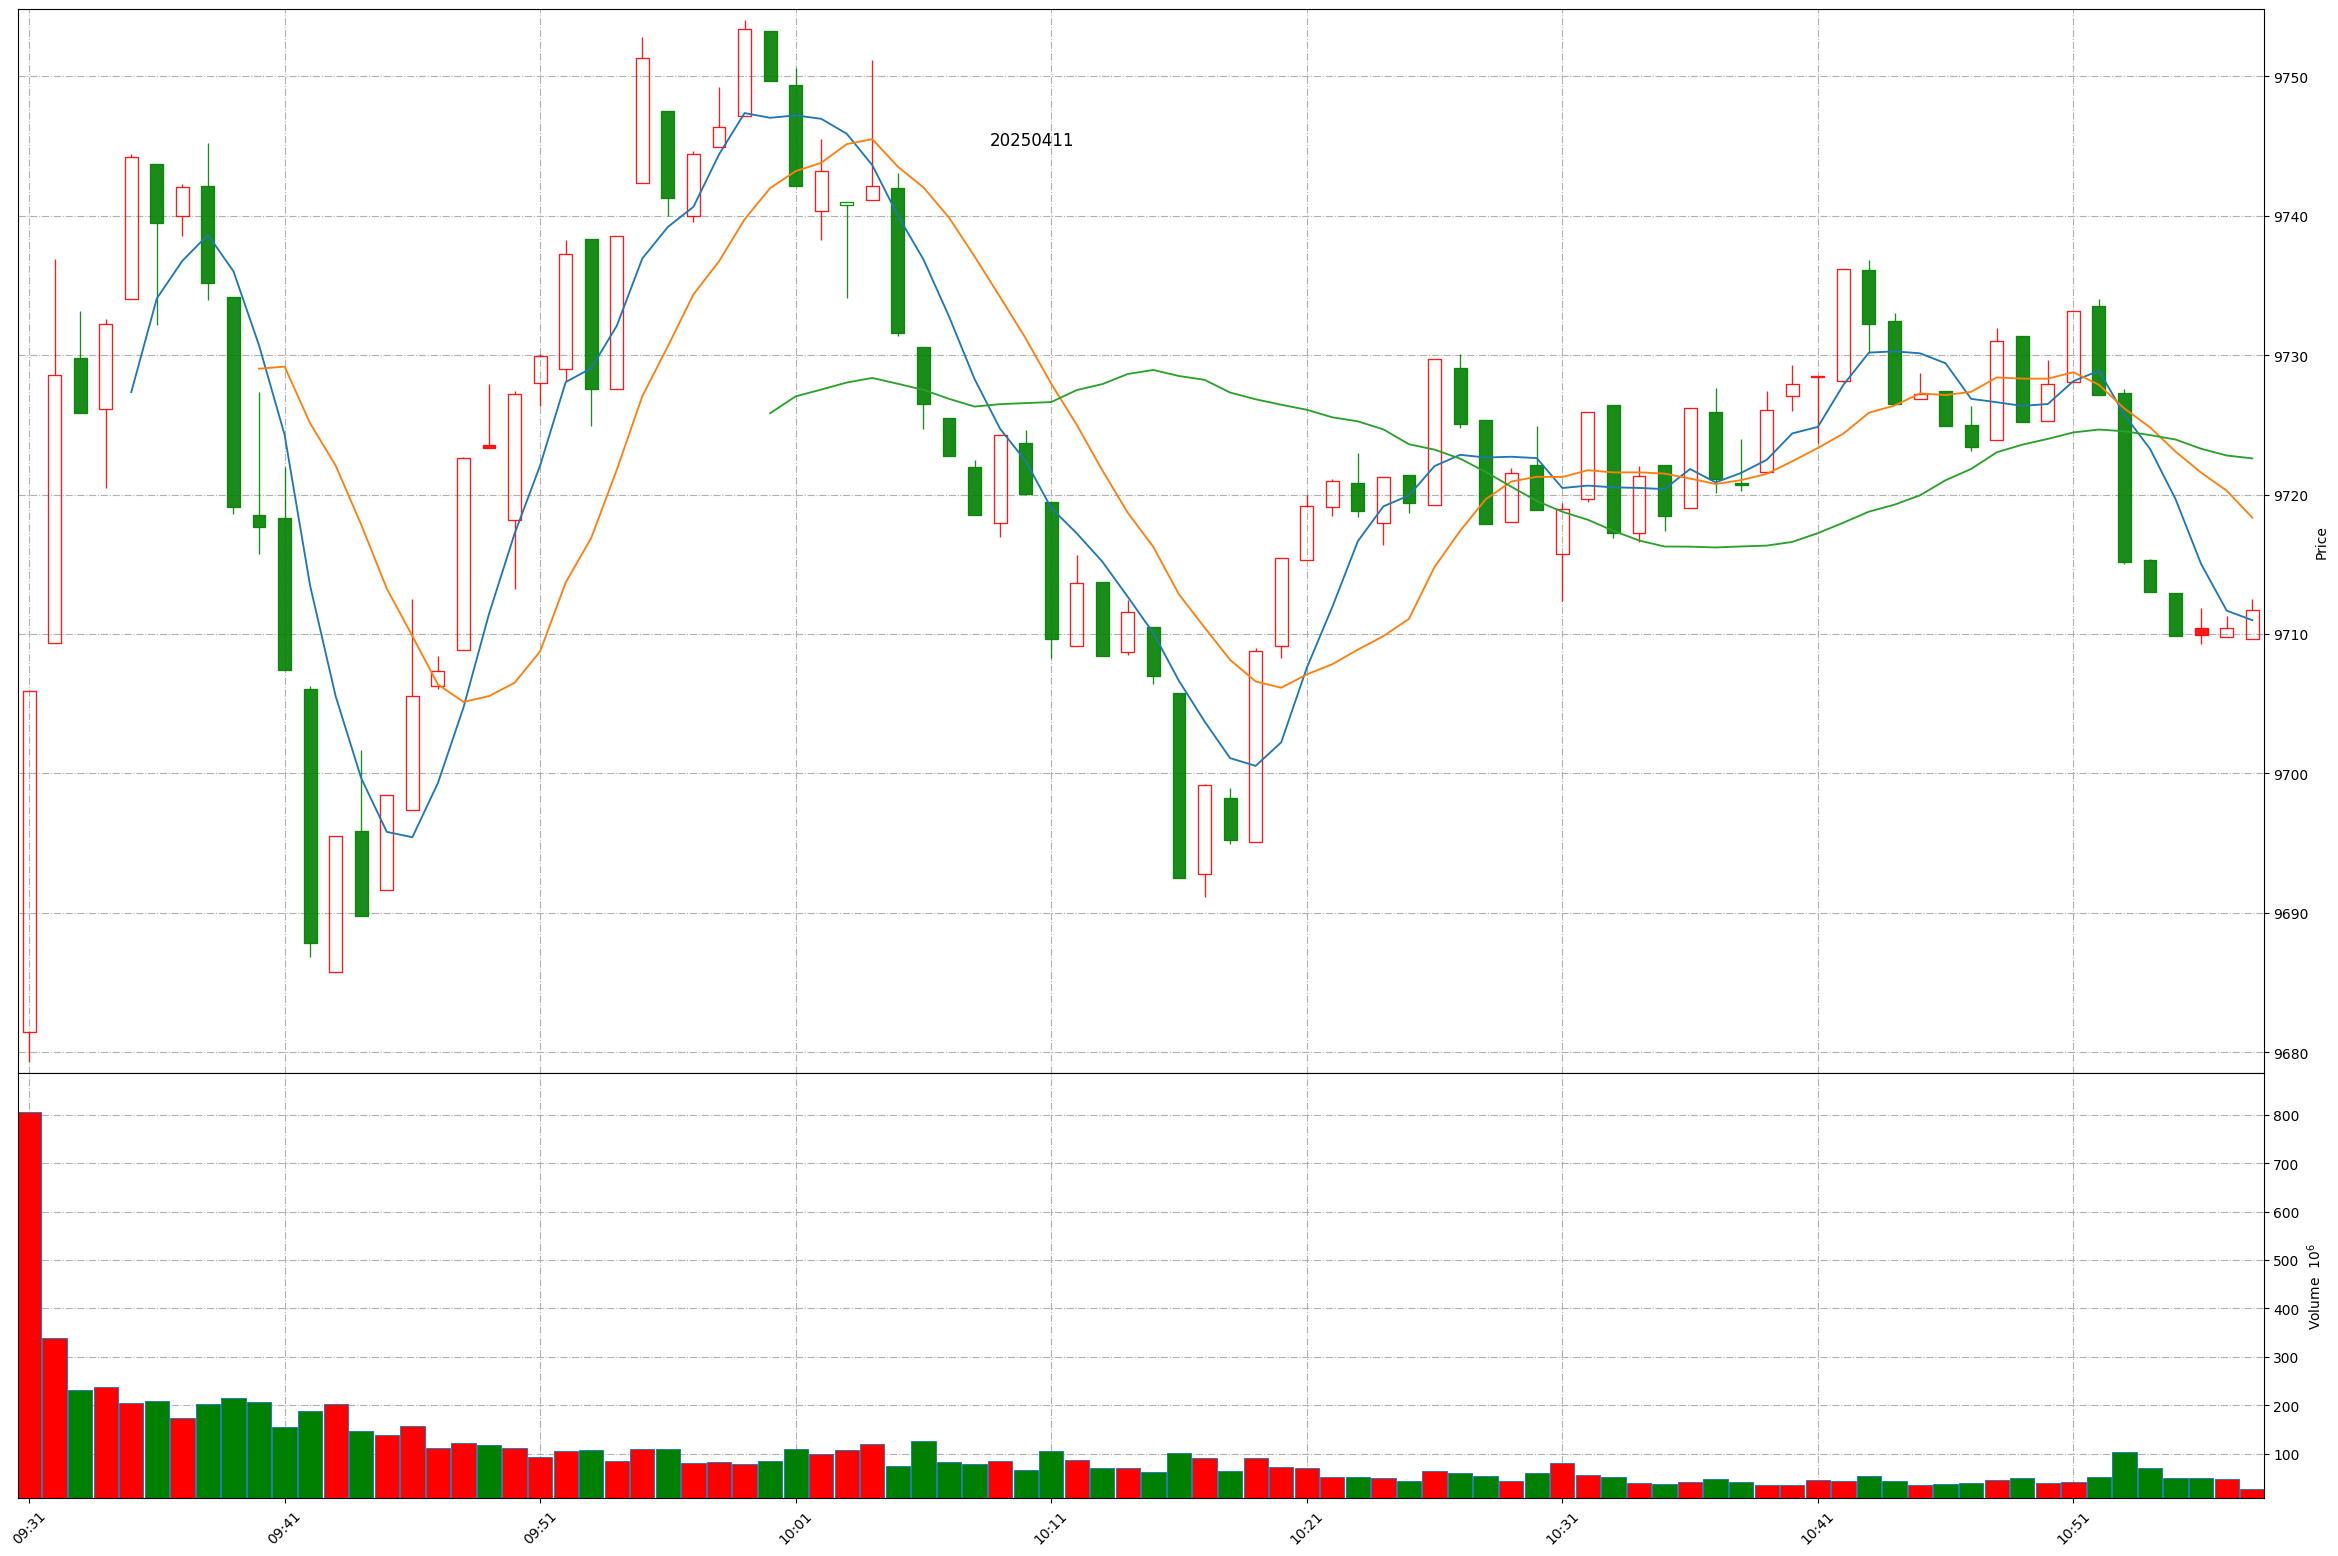
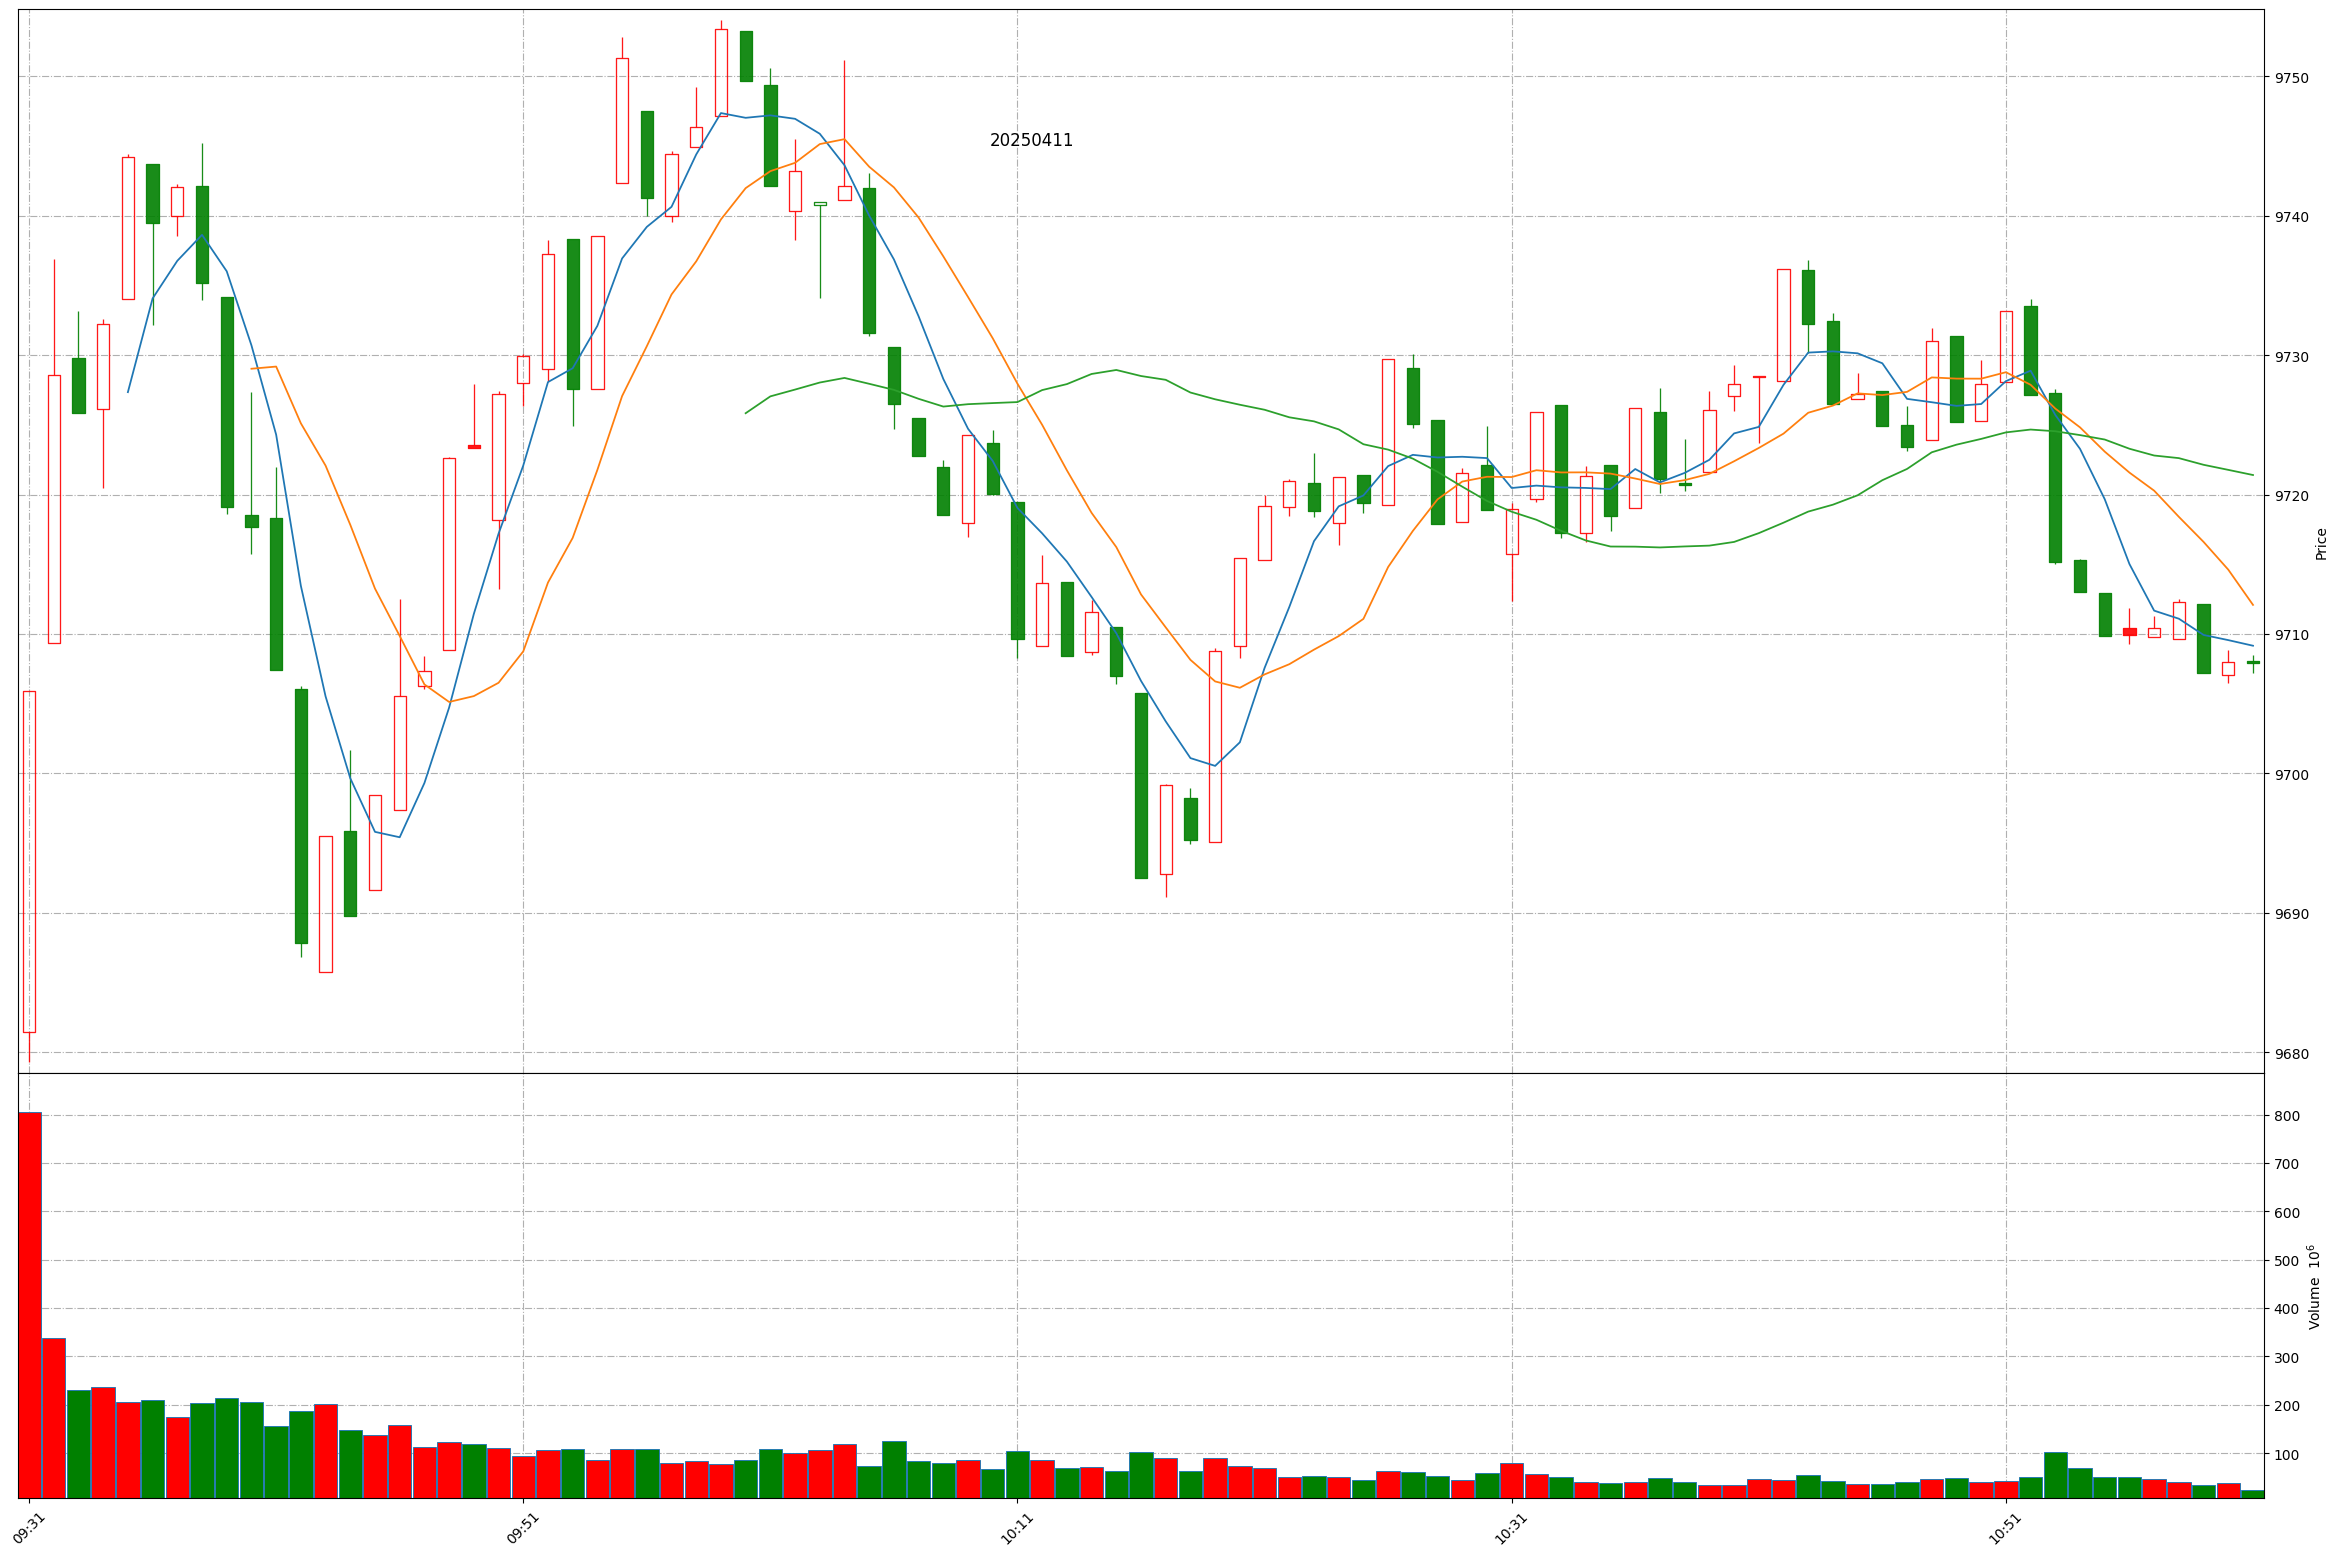
Github action update at 2025-04-11 11:00:51.

diff --git a/README.md b/README.md
@@ -1,11 +1,11 @@
 
 # Daily-A-share-market-quotes 每日 A 股指数（5min 更新）- 20250411
 
-### 上证指数 20250411 10:57
+### 上证指数 20250411 11:0
 ![](./fig/2025/4/20250411-sh000001.png)
 
-### 深证成指 20250411 10:57
+### 深证成指 20250411 11:0
 ![](./fig/2025/4/20250411-sz399001.png)
 
-### 北证50 20250411 10:57
+### 北证50 20250411 11:0
 ![](./fig/2025/4/20250411-bj899050.png)
